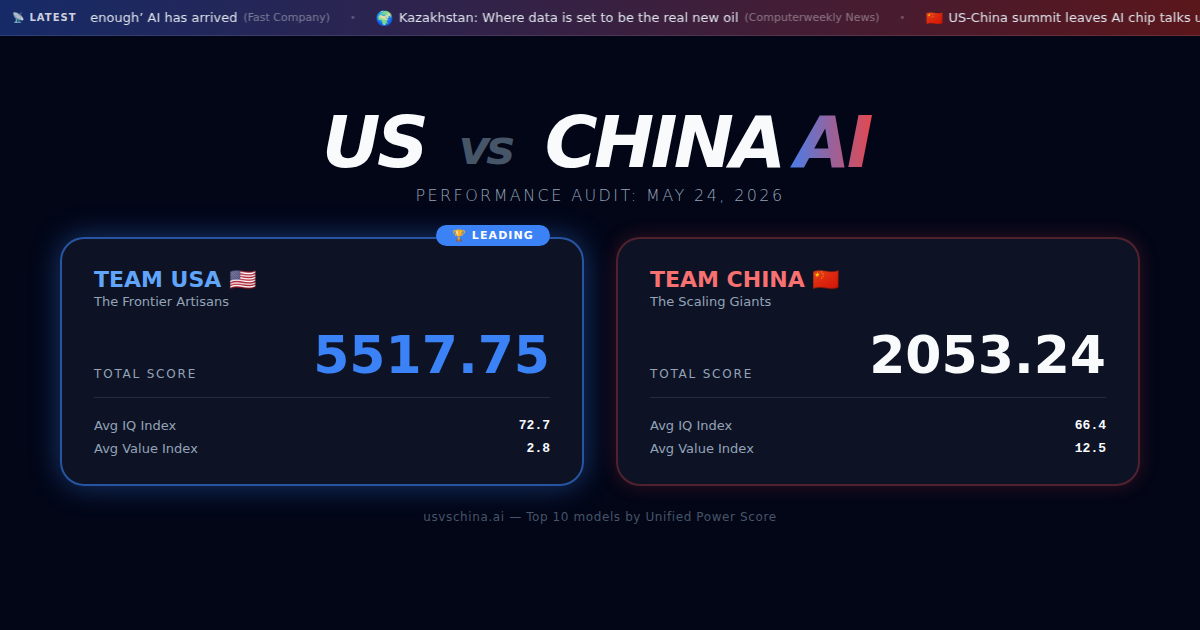
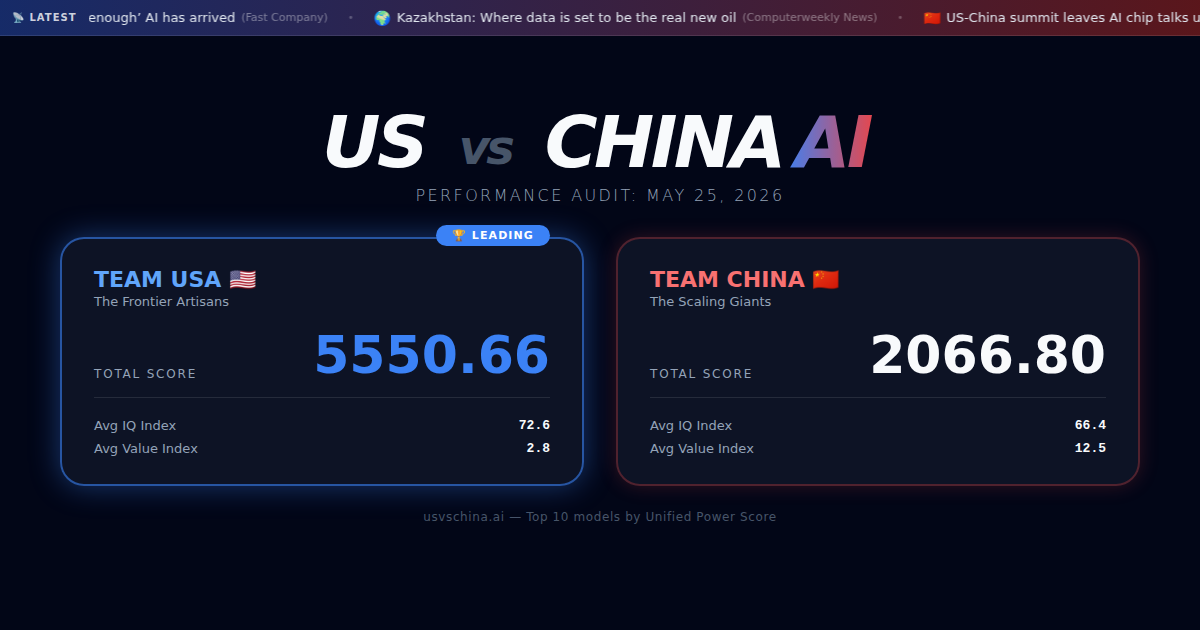
Daily scrape run - 2026-05-25T05:34:49 UTC

diff --git a/about.html b/about.html
@@ -27,7 +27,7 @@
     <meta property="og:url" content="https://usvschina.ai/about.html">
     <meta property="og:title" content="US vs CHINA AI | About - Methodology & Scoring Explained">
     <meta property="og:description" content="Learn how US vs CHINA AI ranks AI models. Understand the scoring methodology and benchmarks.">
-    <meta property="og:image" content="https://usvschina.ai/og-image.png?v=1779600541">
+    <meta property="og:image" content="https://usvschina.ai/og-image.png?v=1779687289">
     <meta property="og:image:width" content="1200">
     <meta property="og:image:height" content="630">
     <meta property="og:image:type" content="image/png">
@@ -39,7 +39,7 @@
     <meta name="twitter:url" content="https://usvschina.ai/about.html">
     <meta name="twitter:title" content="US vs CHINA AI | About - Methodology & Scoring Explained">
     <meta name="twitter:description" content="Learn how US vs CHINA AI ranks AI models. Understand the scoring methodology and benchmarks.">
-    <meta name="twitter:image" content="https://usvschina.ai/og-image.png?v=1779600541">
+    <meta name="twitter:image" content="https://usvschina.ai/og-image.png?v=1779687289">
     
     <!-- Additional SEO/AEO Meta -->
     <!-- theme-color is injected at runtime below to keep the HTML lint-clean

diff --git a/history.html b/history.html
@@ -27,7 +27,7 @@
     <meta property="og:url" content="https://usvschina.ai/history.html">
     <meta property="og:title" content="US vs CHINA AI | Historical Archives - AI Race Timeline">
     <meta property="og:description" content="Track the history of the US vs China AI race. See how AI model rankings have changed over time.">
-    <meta property="og:image" content="https://usvschina.ai/og-image.png?v=1779600541">
+    <meta property="og:image" content="https://usvschina.ai/og-image.png?v=1779687289">
     <meta property="og:image:width" content="1200">
     <meta property="og:image:height" content="630">
     <meta property="og:image:type" content="image/png">
@@ -39,7 +39,7 @@
     <meta name="twitter:url" content="https://usvschina.ai/history.html">
     <meta name="twitter:title" content="US vs CHINA AI | Historical Archives - AI Race Timeline">
     <meta name="twitter:description" content="Track the history of the US vs China AI race. See how AI model rankings have changed over time.">
-    <meta name="twitter:image" content="https://usvschina.ai/og-image.png?v=1779600541">
+    <meta name="twitter:image" content="https://usvschina.ai/og-image.png?v=1779687289">
     
     <!-- Additional SEO/AEO Meta -->
     <!-- theme-color is injected at runtime below to keep the HTML lint-clean

diff --git a/index.html b/index.html
@@ -27,7 +27,7 @@
     <meta property="og:url" content="https://usvschina.ai/">
     <meta property="og:title" content="US vs CHINA AI | Global Leaderboard - Compare Top AI Models 2025">
     <meta property="og:description" content="Compare the world's best AI models ranked by intelligence and cost efficiency. Track which country is winning the AI race.">
-    <meta property="og:image" content="https://usvschina.ai/og-image.png?v=1779600541">
+    <meta property="og:image" content="https://usvschina.ai/og-image.png?v=1779687289">
     <meta property="og:image:width" content="1200">
     <meta property="og:image:height" content="630">
     <meta property="og:image:type" content="image/png">
@@ -39,7 +39,7 @@
     <meta name="twitter:url" content="https://usvschina.ai/">
     <meta name="twitter:title" content="US vs CHINA AI | Global Leaderboard - Compare Top AI Models 2025">
     <meta name="twitter:description" content="Compare the world's best AI models ranked by intelligence and cost efficiency. Track which country is winning the AI race.">
-    <meta name="twitter:image" content="https://usvschina.ai/og-image.png?v=1779600541">
+    <meta name="twitter:image" content="https://usvschina.ai/og-image.png?v=1779687289">
     
     <!-- Additional SEO/AEO Meta -->
     <!-- theme-color is injected at runtime below to keep the HTML lint-clean

diff --git a/privacy.html b/privacy.html
@@ -27,7 +27,7 @@
     <meta property="og:url" content="https://usvschina.ai/privacy.html">
     <meta property="og:title" content="US vs CHINA AI | Privacy Policy">
     <meta property="og:description" content="Privacy policy for US vs CHINA AI. We do not collect personal data.">
-    <meta property="og:image" content="https://usvschina.ai/og-image.png?v=1779600541">
+    <meta property="og:image" content="https://usvschina.ai/og-image.png?v=1779687289">
     <meta property="og:image:width" content="1200">
     <meta property="og:image:height" content="630">
     <meta property="og:image:type" content="image/png">
@@ -39,7 +39,7 @@
     <meta name="twitter:url" content="https://usvschina.ai/privacy.html">
     <meta name="twitter:title" content="US vs CHINA AI | Privacy Policy">
     <meta name="twitter:description" content="Privacy policy for US vs CHINA AI. We do not collect personal data.">
-    <meta name="twitter:image" content="https://usvschina.ai/og-image.png?v=1779600541">
+    <meta name="twitter:image" content="https://usvschina.ai/og-image.png?v=1779687289">
 
     <!-- Additional SEO/AEO Meta -->
     <!-- theme-color is injected at runtime below to keep the HTML lint-clean

diff --git a/terms.html b/terms.html
@@ -27,7 +27,7 @@
     <meta property="og:url" content="https://usvschina.ai/terms.html">
     <meta property="og:title" content="US vs CHINA AI | Terms of Service">
     <meta property="og:description" content="Terms of Service for US vs CHINA AI. Derived data disclaimers and limitations.">
-    <meta property="og:image" content="https://usvschina.ai/og-image.png?v=1779600541">
+    <meta property="og:image" content="https://usvschina.ai/og-image.png?v=1779687289">
     <meta property="og:image:width" content="1200">
     <meta property="og:image:height" content="630">
     <meta property="og:image:type" content="image/png">
@@ -39,7 +39,7 @@
     <meta name="twitter:url" content="https://usvschina.ai/terms.html">
     <meta name="twitter:title" content="US vs CHINA AI | Terms of Service">
     <meta name="twitter:description" content="Terms of Service for US vs CHINA AI. Derived data disclaimers and limitations.">
-    <meta name="twitter:image" content="https://usvschina.ai/og-image.png?v=1779600541">
+    <meta name="twitter:image" content="https://usvschina.ai/og-image.png?v=1779687289">
 
     <!-- Additional SEO/AEO Meta -->
     <!-- theme-color is injected at runtime below to keep the HTML lint-clean